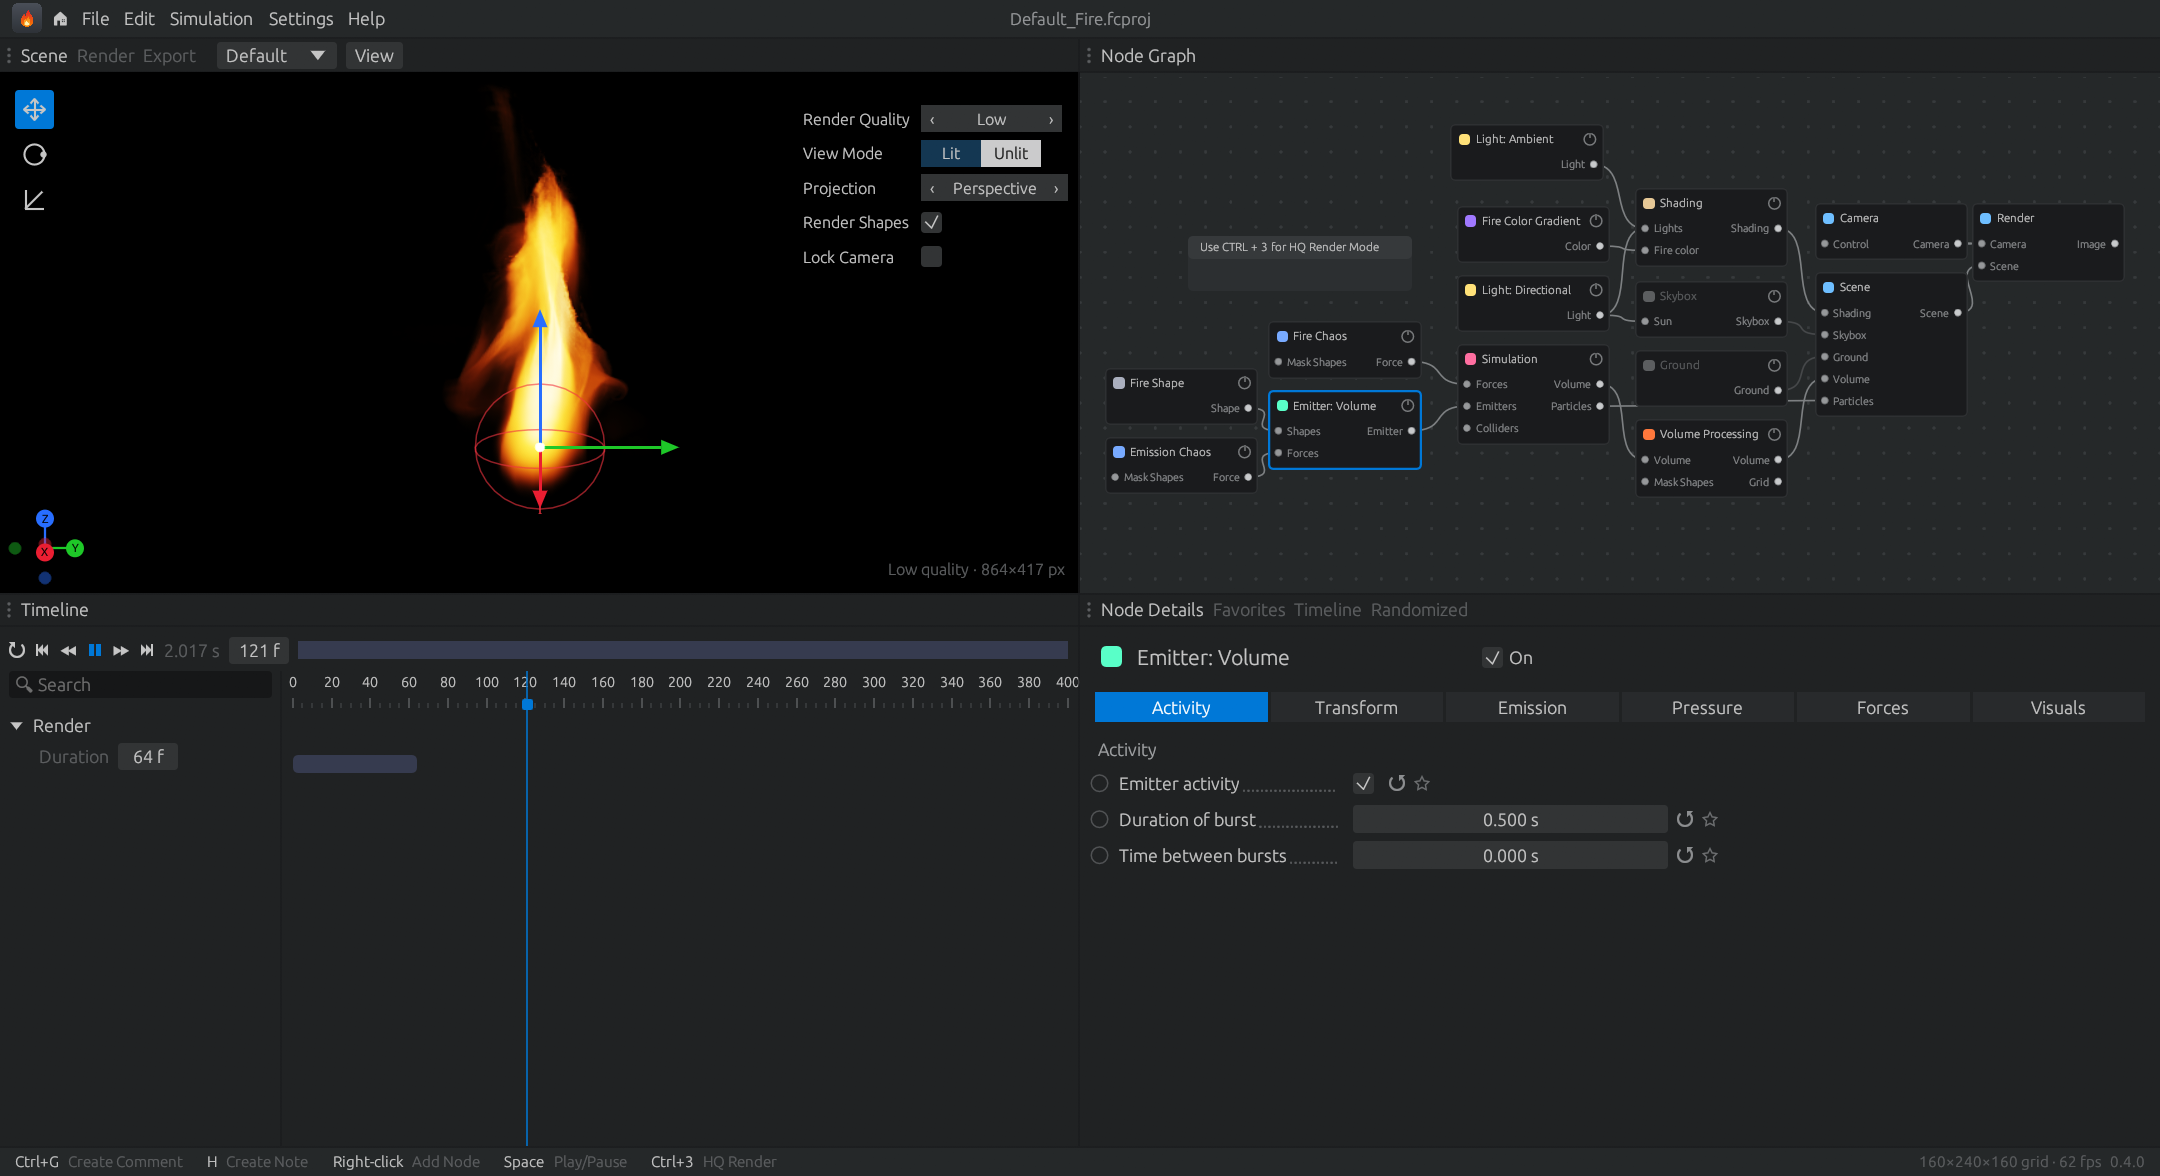
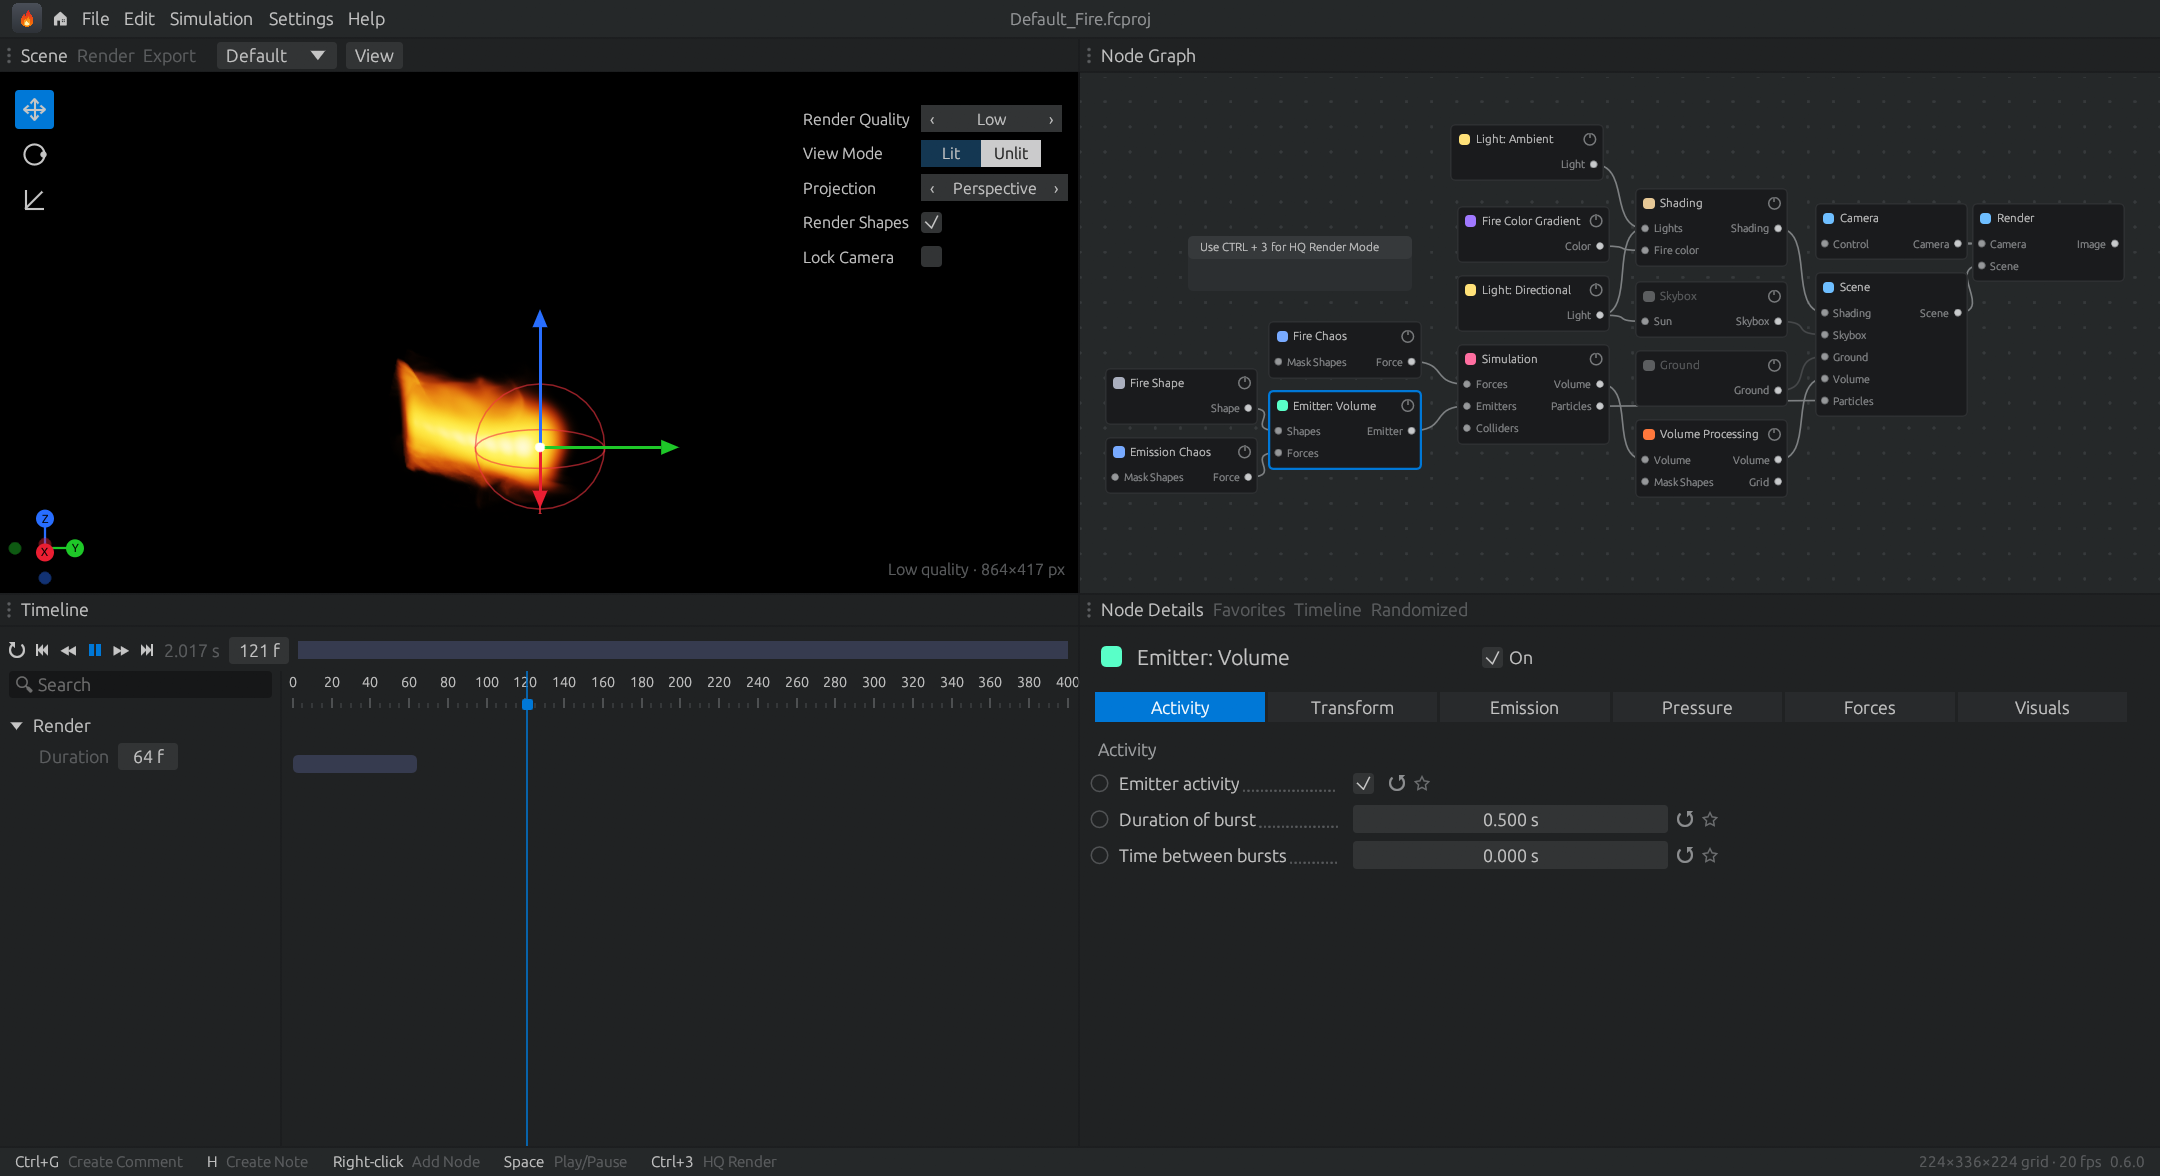
Release v0.6.0: the 0.4.0 look with the new node settings
- Version 0.6.0 and CHANGELOG.md. The release workflow now publishes the
  changelog section for the released version as the release notes.
- README: settings-in-tabs section, render passes and export, feature
  status, and the main and Shading screenshots.

diff --git a/README.md b/README.md
@@ -18,7 +18,7 @@ A real-time volumetric effects tool, built in pure Rust for Windows, macOS and L
 
 <sub><i>Six built-in presets simulating in real time — campfire, mushroom cloud, magic portal, spirit swirl, gas burner, ground explosion. Every frame is a live 3D fluid simulation, not a sprite.</i></sub>
 
-[Simulate](#simulate-fire-the-way-it-actually-moves) · [Nodes](#a-node-graph-for-every-part-of-the-effect) · [Presets](#44-presets-no-two-alike) · [Render](#render-quality-that-holds-up-close) · [Export](#export) · [Downloads](#downloads) · [Build](#quick-start) · [Release](#releasing-a-new-version)
+[Simulate](#simulate-fire-the-way-it-actually-moves) · [Nodes](#a-node-graph-for-every-part-of-the-effect) · [Settings](#every-setting-in-its-own-tab) · [Presets](#44-presets-no-two-alike) · [Render](#render-quality-that-holds-up-close) · [Export](#export) · [Downloads](#downloads) · [Build](#quick-start) · [Release](#releasing-a-new-version) · [Changelog](CHANGELOG.md)
 
 </div>
 
@@ -62,6 +62,27 @@ Right-click the graph for the full library — searchable, grouped like a pro to
 
 Everything you expect from a desktop app is there: **undo / redo**, cut / copy / paste / duplicate nodes, multi-select and box select, right-click menus on nodes, settings, viewport and timeline, favourites and randomise for settings, and projects you can save, reopen and double-click.
 
+## Every setting in its own tab
+
+<a href="docs/screenshot-shading.png"><img src="docs/screenshot-shading.png" width="100%" alt="Shading node, Flames tab, with a live temperature histogram"></a>
+
+<sub><i>The Shading node's Flames tab, with a live histogram of the temperatures in the simulation.</i></sub>
+
+Nodes show their settings in tabs, like the big tools do. A new setting changes nothing until you move it, so the fire keeps its look until you decide otherwise.
+
+| Node | Tabs |
+|---|---|
+| **Fire Color Gradient** | Gradient editor: click to add a stop, drag to move, right-click to remove. RGB, Linear RGB, HSV or OKLab blending. Import and export `.fcgrad` files or a PNG strip |
+| **Shading** | Lighting · Scattering · Emissive masking · Flames · Smoke · Fuel · Rendering, with live temperature and smoke histograms |
+| **Scene** | Tonemapping (None, Reinhard, ACES, Filmic, Uchimura, AgX) · Colors (bloom, swizzle) · Vignetting · Style (ten rendering styles, quantization) |
+| **Volume Processing** | Post process (motion blur, sharpen, dilate) · Post modulation · Slicing mask |
+| **Render** | Render Passes · Export · Render Settings |
+| **Fire Chaos / Emission Chaos** | General (scale, seed, octaves, lacunarity, gain, bias, curl) · Transform (rotation) · Masking (temperature, smoke and velocity masks) · Visual (force arrows in the viewport) |
+| **Emitter: Volume** | Activity · Transform (rotation) · Emission · Pressure (random pressure) · Forces (velocity transfer) · Visuals (show emitter, shadow caster, emit light) |
+| **Fire Shape** | General (fill motion gaps) · Transform (rotation) |
+
+The **Simulation** node is the same as in 0.4.0. Every preset starts at High quality with 10 pressure iterations and 2 substeps, 100% shadowing sharpness, Dilate post processing and raymarch sharpening.
+
 ## 44 presets, no two alike
 
 <a href="docs/screenshot-presets.png"><img src="docs/screenshot-presets.png" width="100%" alt="The preset gallery"></a>
@@ -86,7 +107,9 @@ Candle flame · wildfire line · fire ring · fire tornado · burning wall · oi
 - **Image sequence** — one PNG per frame at any size.
 - **Flipbook** — every frame tiled into one sprite sheet, ready for game engines.
 - **Volume** — density, temperature and fuel as 3D grids (`.vol`), and back in through the Import node.
-- Export from the **Export tab** or from **Export nodes** in the graph; exports run frame by frame without freezing the app.
+- **Render passes**: Render All, Alpha, Emission, Scattering, Temperature, Density, Fuel or Depth. Each is written as RGBA, RGB or a single channel, and can be HDR.
+- **PNG, EXR or TGA**, with filename patterns such as `$(project)_$(safename)`. You set the frame range, stride and numbering, and lay out the flipbook on a visual grid.
+- Export with **Export Now** on the Render node, from the **Export tab**, or from **Export nodes** in the graph. Exports run frame by frame without freezing the app.
 
 ## Fast, native, yours
 
@@ -103,7 +126,9 @@ Candle flame · wildfire line · fire ring · fire tornado · burning wall · oi
 | Viewport, lighting, shadows, HQ refinement | ✅ |
 | Presets (44, pre-rendered pictures) | ✅ |
 | Undo / redo, clipboard, project files | ✅ |
-| Image sequence · flipbook · `.vol` volume export, volume import | ✅ |
+| Image sequence · flipbook (PNG · EXR · TGA, render passes) · `.vol` volume export, volume import | ✅ |
+| Node settings in tabs: gradients, histograms, tonemapping, styles, force gizmos | ✅ |
+| *Import control* settings | ⬜ shown, not yet active |
 | Windows installer · macOS universal app · Linux AppImage, automatic releases | ✅ |
 | MIDI modulator | ✅ Windows · ⬜ macOS / Linux |
 | OpenVDB (`.vdb`) export | ⬜ (`.vol` for now) |
@@ -159,7 +184,7 @@ On Linux install the windowing libraries first: `sudo apt install libxkbcommon-d
 Useful commands:
 
 ```sh
-cargo test                                   # unit tests (one test renders on the GPU)
+cargo test                                   # unit tests, incl. GPU renders compared pixel by pixel with 0.4.0
 cargo test render_preset_pictures -- --ignored   # re-render the built-in preset pictures (~6 min)
 cargo run --release -- my_project.fcproj     # open a project
 cargo run --release -- --screenshot out.png  # render ~120 frames, save the window, exit
@@ -172,7 +197,8 @@ cargo run --release -- --screenshot out.png  # render ~120 frames, save the wind
 | App, panels, menus | `src/main.rs` | eframe / egui UI, viewport, timeline, exports, undo, shortcuts |
 | Node graph | `src/graph.rs` | node library, ports and wiring, settings panel, project files |
 | Simulation | `src/sim.wgsl`, `src/gpu.rs` | GPU compute: MAC-grid fluid, combustion, forces, colliders, pressure solve |
-| Rendering | `src/render.wgsl` | GPU ray marcher with shadows, lights, sparks, temporal refinement |
+| Rendering | `src/render.wgsl`, `src/post.wgsl` | GPU ray marcher with shadows, lights and sparks; tonemapping, bloom, styles and render passes |
+| Setting widgets | `src/widgets.rs`, `src/noise.rs` | gradient editor, render passes, histograms, noise preview, export helpers |
 | Presets | `src/presets.rs`, `assets/presets/` | preset graphs and their pre-rendered pictures |
 | Modulators | `src/modulate.rs` | values over time and MIDI input |
 | Home screen | `src/home.rs` | presets gallery, recent projects |
@@ -185,10 +211,10 @@ Pure Rust on [wgpu](https://wgpu.rs) (DirectX 12 · Vulkan · Metal) and [egui](
 Releases are automatic. Bump the version and push:
 
 ```powershell
-powershell -ExecutionPolicy Bypass -File scripts\bump.ps1 0.5.0
+powershell -ExecutionPolicy Bypass -File scripts\bump.ps1 0.7.0
 ```
 
-(or edit `version` in `Cargo.toml` and push to `main`). The **Release** workflow notices the new version, builds the Windows installer, the macOS universal `.dmg` and the Linux AppImage, and publishes them as release `v0.5.0` with checksums — about 15 minutes. Pushes that don't change the version are built and tested by **CI** on all three platforms but not released.
+(or edit `version` in `Cargo.toml` and push to `main`). First add a `## [0.7.0]` section to [CHANGELOG.md](CHANGELOG.md): it becomes the release notes. The **Release** workflow notices the new version, builds the Windows installer, the macOS universal `.dmg` and the Linux AppImage, and publishes them as release `v0.7.0` with checksums — about 15 minutes. Pushes that don't change the version are built and tested by **CI** on all three platforms but not released.
 
 First-time setup of the repository is a single command: `scripts\publish.ps1` (creates the private repository under the organization and pushes).
 

diff --git a/CHANGELOG.md b/CHANGELOG.md
@@ -1,0 +1,89 @@
+# Changelog
+
+All notable changes to FireCraft. Each release on GitHub shows the section for its version.
+
+## [0.6.0] - 2026-11-05
+
+The 0.4.0 look is back, with the node settings from 0.5 rebuilt on top of it, and the blocky glitches are gone.
+
+### Changed
+
+- **Back to the 0.4.0 fire engine.** The 0.5.0 simulation and renderer made the fire grainy and blotchy, so they are replaced by 0.4.0's. The Simulation node has 0.4.0's settings again.
+- The look is guarded by a test. It renders the default fire and a smoky outdoor scene, and compares them pixel by pixel with pictures made by the 0.4.0 build.
+- **New defaults for every preset:**
+  - High quality, 10 pressure iterations and 2 substeps.
+  - 100% shadowing sharpness.
+  - Dilate post processing and raymarch sharpening.
+
+### Added
+
+Every new setting leaves the picture unchanged until you move it off its default.
+
+- **Fire Color Gradient**: a full gradient editor.
+  - Click the bar to add a stop, drag a stop to move it, right-click a stop to remove it.
+  - Interpolates in RGB, Linear RGB, HSV or OKLab.
+  - Imports and exports `.fcgrad` files, or exports a PNG strip.
+- **Shading**: tabs for Lighting, Scattering, Emissive masking, Flames, Smoke, Fuel and Rendering.
+  - Live temperature and smoke histograms.
+  - Coloring remap ranges and ramps, flame shaping, and flame colouring by gradient, blackbody or a single colour.
+  - Translucency, density limits, smoke colouring by gradient, and fuel rendering.
+  - Shadow sharpness and intensity, extinction colour, lighting anisotropy and ambient occlusion.
+  - Light from flames and particles, emissive masking, and raymarch sharpening.
+- **Scene**:
+  - Tonemapping: None, Reinhard, ACES, Filmic, Uchimura or AgX; gamma, exposure, vibrance, contrast, brightness, saturation and dithering.
+  - Colors: channel swizzle and bloom.
+  - Vignetting.
+  - Ten rendering styles, with quantization and remapping styles.
+- **Volume Processing**:
+  - Post process: Motion Blur, Sharpen or Dilate.
+  - Post modulation.
+  - A slicing mask that fades the volume towards each wall.
+- **Render node**:
+  - Render passes: Render All, Alpha, Emission, Scattering, Temperature, Density, Fuel or Depth. Each is written as RGBA, RGB or a single channel, and can be HDR.
+  - Export as a flipbook or an image sequence.
+  - Flipbook layout on a visual grid.
+  - First frame, frame count, stride, numbering offset and absolute frame numbers.
+  - Filename patterns such as `$(project)_$(safename)`.
+  - PNG, EXR and TGA files.
+  - *Export Now* and *Open Folder*.
+  - Alpha blending, inverted alpha, and shape holdout or masking.
+  - Whether the volume and particles hide each other.
+- **Force nodes (Fire Chaos, Emission Chaos)**:
+  - Scale in cm, seed, octaves, lacunarity, gain, bias, animation speed and curl noise.
+  - Rotation.
+  - Temperature, smoke and velocity masks with ranges.
+  - Mode: Volume, Particles or both.
+  - Arrows in the viewport that show the force field, and the mask outline.
+- **Emitter: Volume**:
+  - Rotation.
+  - Random pressure.
+  - Velocity transfer from a moving emitter.
+  - Show emitter, Shadow caster, and Emit light.
+- **Fire Shape**: shape activity, rotation and *Fill motion gaps*.
+
+### Fixed
+
+- **Blocky glitches.** The renderer skips empty space in blocks of 8×8×8 voxels. It counted thin haze as empty, which cut rectangular holes into smoke. It could also jump past the start of a filled block and cut that block's edge off. Both are fixed.
+
+### Known limitations
+
+- The *Import control* checkboxes have no effect yet.
+- Sharpening, ambient occlusion, motion blur and particle occlusion are simplified versions of the original's behaviour.
+- The preset pictures are still 0.4's renders.
+
+## [0.5.0] - 2026-11-05
+
+- Every node had the full set of settings, in tabs.
+- New simulation and rendering engine. 0.6.0 replaced it, because it made the fire grainy.
+
+## [0.4.0] - 2026-11-05
+
+First public build.
+
+- Real-time 3D fire, smoke and fuel simulation on the GPU, with combustion, colliders and wind.
+- A node graph with the full node library: shapes, emitters, colliders, forces, modulators, lights, cameras, colours, import and export.
+- A GPU ray-marched viewport with shadows, lights, sparks and HQ refinement.
+- 44 distinct presets with pre-rendered pictures, a home screen and recent projects.
+- Undo and redo, clipboard, and project files.
+- Image sequence, flipbook and volume export.
+- A Windows installer, a macOS universal app, a Linux AppImage, and automatic releases.
